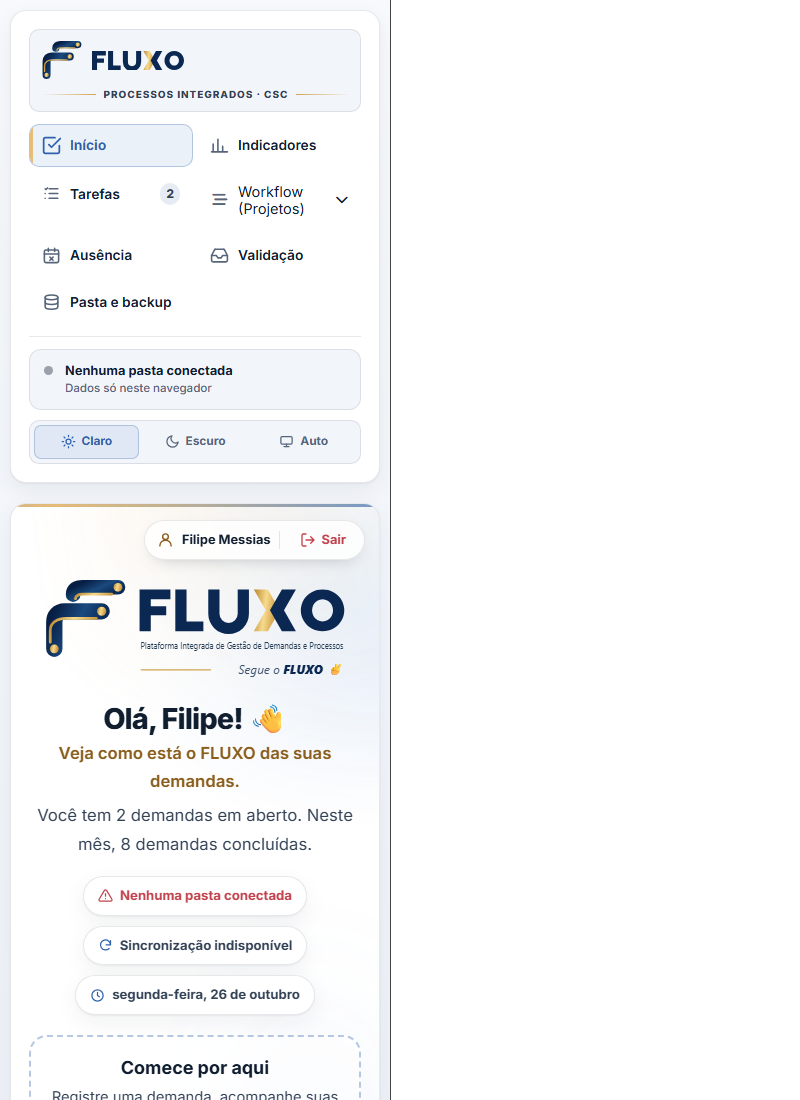
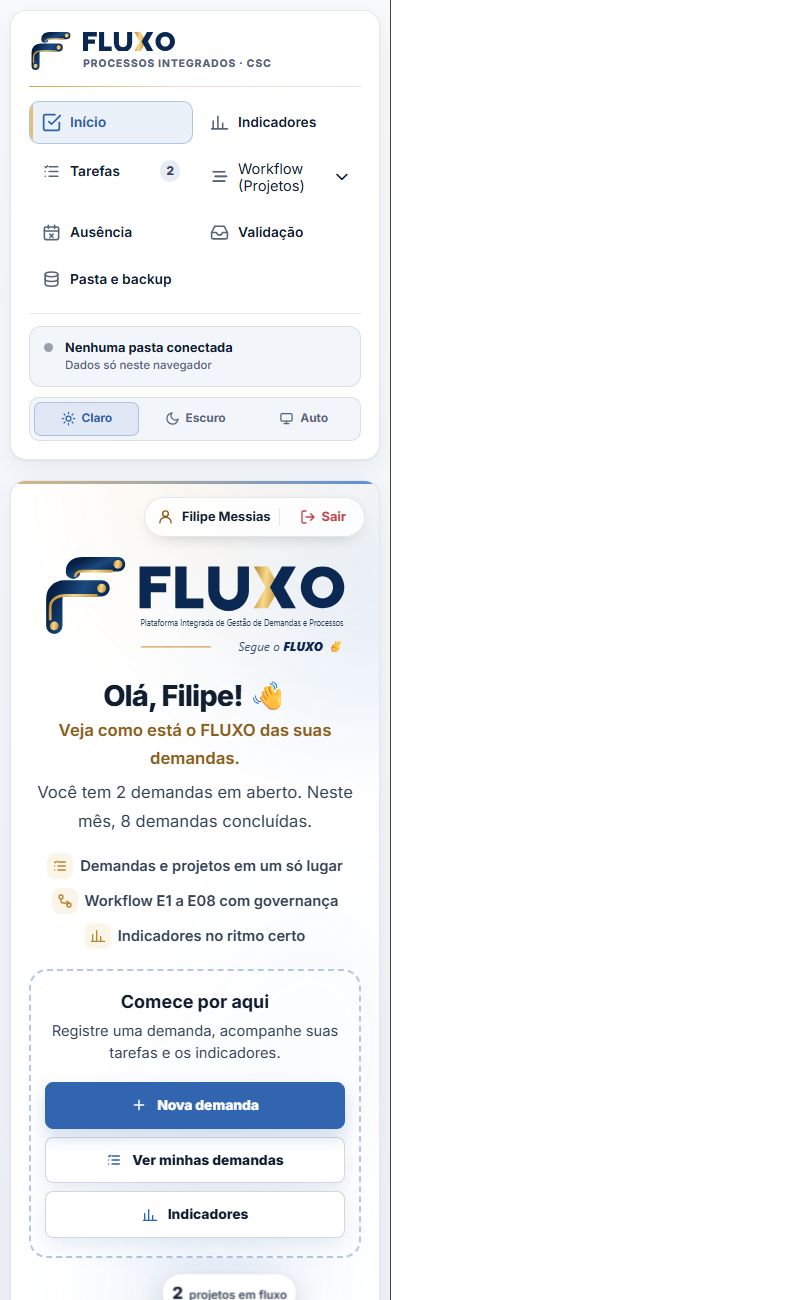
feat: marca do menu sem cartão e capa do Início mais limpa
- Menu: símbolo + FLUXO + "Processos Integrados · CSC" alinhados, sem
  cartão, com filete dourado; botão de recolher redondo na borda.
- Início: três frases do sistema no lugar dos estados de pasta,
  sincronização e data (o estado da pasta segue no rodapé do menu);
  sai a legenda abaixo da ilustração.

Changed region(s): [[0.0312, 0.0, 0.4375, 1.0], [0.375, 0.3091, 0.4062, 0.34], [0.0312, 0.9273, 0.0625, 0.9582]]

diff --git a/02-usuario/app/fluxo.css b/02-usuario/app/fluxo.css
@@ -165,7 +165,6 @@ body { background: var(--fx-shell); background-attachment: fixed; color: var(--f
 /* Recolhido: mostra só o símbolo */
 body.sidebar-collapsed .sidebar-brand { display: flex; justify-content: center; }
 body.sidebar-collapsed .sidebar-brand-text { display: none; }
-body.sidebar-collapsed .sidebar-tools { flex-direction: column; gap: 10px; }
 
 .nav-link { border-color: transparent; background: transparent; border-radius: 10px; box-shadow: none; transition: background var(--fx-fast) var(--fx-ease), color var(--fx-fast) var(--fx-ease), border-color var(--fx-fast) var(--fx-ease), transform var(--fx-fast) var(--fx-ease); }
 .nav-link svg, .nav-fa { color: var(--fx-ink-3); }
@@ -223,7 +222,6 @@ dialog[open] { animation: fxPop var(--fx-base) var(--fx-ease); }
 .fx-assinatura { margin-top: 28px; font-size: .78rem; letter-spacing: .08em; text-transform: uppercase; color: var(--fx-ink-3); }
 
 /* Aplicação da marca oficial e composição fluida do Início. */
-.sidebar-tools { background: var(--fx-surface-2); border-color: var(--fx-line); box-shadow: none; }
 .welcome-section { width: 100%; max-width: 1040px; min-height: min(780px, calc(100dvh - 140px)); padding: 8px 14px 30px; }
 .status-badges { margin-bottom: 20px; }
 .welcome-section h2 { margin-bottom: 8px; }
@@ -396,11 +394,6 @@ dialog[open] { animation: fxPop var(--fx-base) var(--fx-ease); }
 .fx-chip-ok b { color: var(--fx-success); }
 @keyframes fxChip { 0%, 100% { margin-top: 0; } 50% { margin-top: -6px; } }
 /* Legenda no rodapé da ilustração */
-.fx-capa-legenda { display: flex; flex-wrap: wrap; justify-content: center; gap: 6px 22px; margin-top: 14px; color: var(--fx-ink-2); font-size: .84rem; font-weight: 600; text-align: center; }
-.fx-capa-legenda span { display: inline-flex; align-items: center; gap: 8px; }
-.fx-capa-legenda small { flex-basis: 100%; color: var(--fx-ink-3); font-size: .76rem; font-weight: 400; }
-.fx-leg-fluxo { width: 26px; height: 0; border-top: 3px dotted #E6BC79; }
-.fx-leg-no { width: 12px; height: 12px; border-radius: 50%; background: #E6BC79; box-shadow: 0 0 0 3px rgba(230, 188, 121, .25); }
 
 /* Traços da ilustração (seguem o tema) */
 .fx-capa-linhas path, .fx-capa-doc rect, .fx-capa-doc path, .fx-capa-aro, .fx-capa-seta, .fx-capa-hex path:first-child { fill: none; stroke: var(--fx-capa-traco); stroke-width: 7; stroke-linecap: round; stroke-linejoin: round; }
@@ -458,49 +451,58 @@ dialog[open] { animation: fxPop var(--fx-base) var(--fx-ease); }
   .fx-capa-acoes { padding: 18px 14px; }
   .fx-capa-chip { font-size: .7rem; padding: 6px 9px; }
   .fx-chip-gear { left: 60%; }
-  .fx-capa-legenda { font-size: .78rem; }
 }
 @media (prefers-reduced-motion: reduce) {
   .fx-capa-fluxo, .fx-capa-aurora, .fx-capa-conteudo .primary-actions .cta::after { display: none; }
   .fx-capa-palco { transform: none; }
 }
 
-/* ============ 12. Menu lateral: altura da tela, rolagem própria e linha institucional ============ */
-/* Cartão da marca: símbolo + FLUXO + recolher; abaixo, "Processos Integrados · CSC" entre filetes dourados, como o slogan da logo */
-.sidebar-tools { flex-wrap: wrap; row-gap: 10px; padding: 10px 10px 11px 12px; }
-.sidebar-collapse { width: 34px; height: 34px; flex: 0 0 34px; border-radius: 10px; }
-.fx-brand-sub { flex: 1 0 100%; display: flex; align-items: center; gap: 8px; min-width: 0; color: var(--fx-ink-2); font-size: .58rem; font-weight: 800; letter-spacing: .1em; line-height: 1; text-transform: uppercase; white-space: nowrap; }
-.fx-brand-sub::before, .fx-brand-sub::after { content: ''; flex: 1 1 10px; min-width: 10px; height: 1px; background: linear-gradient(90deg, rgba(210, 164, 82, 0), #D2A452); }
-.fx-brand-sub::after { background: linear-gradient(90deg, #D2A452, rgba(210, 164, 82, 0)); }
+/* Frases do sistema na capa (no lugar dos estados de pasta, sincronização e data) */
+.fx-capa-conteudo .status-badges:has(.fx-valor) { flex-direction: column; align-items: flex-start; gap: 9px; }
+.fx-capa-conteudo .status-pill.fx-valor { padding: 0; border: 0; background: none; box-shadow: none; backdrop-filter: none; color: var(--fx-ink-2); font-size: .92rem; font-weight: 600; }
+.fx-capa-conteudo .status-pill.fx-valor svg { flex: none; width: 26px; height: 26px; padding: 5px; border-radius: 8px; color: #B8862F; background: rgba(230, 188, 121, .16); }
+@media (max-width: 1100px) { .fx-capa-conteudo .status-badges:has(.fx-valor) { align-items: center; } }
+
+/* ============ 12. Menu lateral: altura da tela, rolagem própria e marca ============ */
+/* Marca sem cartão: símbolo + FLUXO + "Processos Integrados · CSC" alinhados; filete dourado separa do menu */
+.sidebar-tools { position: relative; min-height: 0; margin-bottom: 14px; padding: 2px 2px 16px; border: 0; border-radius: 0; background: none; box-shadow: none; }
+.sidebar-tools::after { content: ''; position: absolute; left: 0; right: 0; bottom: 0; height: 1px; background: linear-gradient(90deg, #D2A452, rgba(210, 164, 82, .35) 45%, var(--fx-line) 100%); }
+.sidebar-brand { gap: 12px; min-width: 0; }
+.sidebar-brand-text { gap: 6px; }
+.fx-brand-sub { display: block; color: var(--fx-ink-3); font-size: .56rem; font-weight: 700; letter-spacing: .07em; line-height: 1; text-transform: uppercase; white-space: nowrap; }
+/* Recolher: botão redondo e discreto na borda do menu */
+.sidebar-collapse { position: absolute; top: 0; right: -29px; z-index: 3; width: 26px; height: 26px; flex: none; border: 1px solid var(--fx-line); border-radius: 50%; background: var(--fx-surface); color: var(--fx-ink-3); box-shadow: 0 4px 12px rgba(16, 30, 48, .16); transition: color var(--fx-fast) var(--fx-ease), border-color var(--fx-fast) var(--fx-ease), transform var(--fx-fast) var(--fx-ease); }
+.sidebar-collapse svg { width: 14px; height: 14px; }
+.sidebar-collapse:hover { color: var(--fx-accent); border-color: rgba(var(--fx-accent-rgb), .45); background: var(--fx-surface); transform: scale(1.08); }
 .sidebar ul#navList { gap: 4px; align-content: start; }
 .nav-link { padding: 11px 12px; }
 /* Foco visível para quem navega pelo teclado */
 .nav-link:focus-visible, .sidebar-collapse:focus-visible, .sync-card:focus-visible, .theme-switch button:focus-visible { outline: 2px solid var(--fx-accent); outline-offset: 2px; }
 
 @media (min-width: 1201px) {
-  /* A coluna ocupa a altura da tela: o menu rola por dentro e o rodapé (pasta e tema) fica sempre embaixo */
-  .sidebar { height: calc(100dvh - 24px); max-height: none; padding: 18px 16px 16px; overflow: hidden; }
-  .sidebar ul#navList { flex: 1 1 auto; min-height: 0; overflow-y: auto; overscroll-behavior: contain; margin: 0 -6px; padding: 2px 6px 8px; scrollbar-width: thin; scrollbar-color: var(--fx-line) transparent; }
+  /* A coluna ocupa a altura da tela: o menu rola por dentro e o rodapé (pasta e tema) fica sempre embaixo.
+     A coluna não corta o conteúdo, para o botão de recolher ficar na borda. */
+  .sidebar { height: calc(100dvh - 24px); max-height: none; padding: 20px 16px 16px; overflow: visible; }
+  .sidebar ul#navList { flex: 1 1 auto; min-height: 0; overflow-y: auto; overflow-x: hidden; overscroll-behavior: contain; margin: 0 -6px; padding: 2px 6px 8px; scrollbar-width: thin; scrollbar-color: var(--fx-line) transparent; }
   .sidebar-foot { flex: none; margin-top: 10px; padding-top: 12px; }
-  .sidebar-tools { margin-bottom: 14px; }
-  /* Recolhido: só ícones, com o símbolo e o botão de abrir empilhados */
-  body.sidebar-collapsed .sidebar { padding: 16px 10px; }
-  body.sidebar-collapsed .sidebar-tools { padding: 8px 6px; row-gap: 8px; }
-  body.sidebar-collapsed .fx-brand-sub { display: none; }
+  /* Recolhido: só o símbolo, centralizado; o botão continua na borda */
+  body.sidebar-collapsed .sidebar { padding: 20px 10px 16px; }
+  body.sidebar-collapsed .sidebar-tools { flex-direction: row; justify-content: center; padding: 2px 0 16px; }
+  body.sidebar-collapsed .sidebar-collapse { right: -23px; }
   body.sidebar-collapsed .nav-link { min-height: 48px; }
   body.sidebar-collapsed .sidebar ul#navList { margin: 0 -4px; padding: 2px 4px 8px; }
 }
 /* Telas baixas (notebook com zoom, janelas pequenas): itens mais compactos */
 @media (min-width: 1201px) and (max-height: 760px) {
-  .sidebar { padding-top: 14px; padding-bottom: 12px; }
-  .sidebar-tools { margin-bottom: 10px; }
+  .sidebar { padding-top: 16px; padding-bottom: 12px; }
+  .sidebar-tools { margin-bottom: 10px; padding-bottom: 12px; }
   .nav-link { padding-top: 9px; padding-bottom: 9px; }
   .sync-card { padding: 9px 12px; }
   .theme-switch { margin-top: 8px; }
   .theme-switch button { min-height: 30px; }
   body.sidebar-collapsed .nav-link { min-height: 42px; }
 }
-/* Tablet e celular: o menu vem no topo; a linha institucional acompanha a largura */
+/* Tablet e celular: o menu vem no topo, sem botão de recolher */
 @media (max-width: 1200px) {
   .fx-brand-sub { font-size: .62rem; }
 }

diff --git a/02-usuario/app/pgd.js b/02-usuario/app/pgd.js
@@ -4440,14 +4440,11 @@ function renderHome() {
   const hello = h < 12 ? 'Bom dia' : h < 18 ? 'Boa tarde' : 'Boa noite';
   const first = s => String(s || '').trim().split(/\s+/)[0];
   const who = isReader() ? first(cfg.name) : isSup ? first((PRESET && PRESET.nome) || cfg.name || (supCtx && supCtx.supervisor) || '') : first(cfg.name);
-  // Selos de situação
-  let connPill;
-  if (conn === 'ok') connPill = `<span class="status-pill">${I.folder}${dir ? `Pasta “${esc(dir.name)}”` : 'Pasta conectada'}</span>`;
-  else if (conn === 'prompt') connPill = `<span class="status-pill warn">${I.alert}Pasta aguardando reativação</span>`;
-  else connPill = `<span class="status-pill err">${I.alert}Nenhuma pasta conectada</span>`;
-  const pills = [connPill,
-    `<span class="status-pill">${I.refresh}${sync.state === 'syncing' ? 'Sincronizando…' : sync.state === 'error' ? 'Erro na sincronização' : conn === 'ok' ? sync.lastSync ? `${isSup ? 'Lido' : 'Sincronizado'} às ${fmtTime(sync.lastSync)}` : 'Conectado · primeira leitura pendente' : 'Sincronização indisponível'}</span>`,
-    `<span class="status-pill">${I.clock}${esc(new Date().toLocaleDateString('pt-BR', { weekday:'long', day:'2-digit', month:'long' }))}</span>`];
+  // Frases que apresentam o sistema (o estado da pasta fica no rodapé do menu)
+  const pills = [
+    `<span class="status-pill fx-valor">${I.tasks}${isSup ? 'Equipe e demandas em um só lugar' : 'Demandas e projetos em um só lugar'}</span>`,
+    `<span class="status-pill fx-valor">${I.flow}Workflow E1 a E08 com governança</span>`,
+    `<span class="status-pill fx-valor">${I.chart}${isSup ? 'Indicadores da área no ritmo certo' : 'Indicadores no ritmo certo'}</span>`];
   let lead, actions, cards;
   if (isReader()) {
     const sups = readerSupsAll(), mk = curMonth(), a = aggregate(linesFor(mk).lines, 'todos', 'todos');
@@ -4537,11 +4534,6 @@ function renderHome() {
           <span class="fx-capa-chip fx-chip-doc"><b>${open.length}</b> ${open.length === 1 ? 'em aberto' : 'em aberto'}</span>
           <span class="fx-capa-chip fx-chip-gear"><b>${wfAbertos}</b> ${wfAbertos === 1 ? 'projeto em fluxo' : 'projetos em fluxo'}</span>
           <span class="fx-capa-chip fx-chip-ok"><b>${doneMonth}</b> ${doneMonth === 1 ? 'concluída no mês' : 'concluídas no mês'}</span>
-        </div>
-        <div class="fx-capa-legenda">
-          <span><i class="fx-leg-fluxo"></i>Caminho da demanda (solicitação → execução → aprovação)</span>
-          <span><i class="fx-leg-no"></i>Workflow E1 a E08, com gates em E3 e E5</span>
-          <small>Os números acompanham ${isSup ? 'as demandas da equipe' : 'as suas demandas'} e se atualizam a cada sincronização.</small>
         </div>
       </div>
     </section>

diff --git a/02-usuario/app/pgd-markup.js b/02-usuario/app/pgd-markup.js
@@ -75,12 +75,11 @@ document.body.insertAdjacentHTML('afterbegin', `
     <div class="sidebar-tools">
       <div class="sidebar-brand">
         <span class="sidebar-brand-icon pgd-mark" title="FLUXO · Plataforma Integrada de Gestão de Demandas e Processos"><img class="fx-claro" src="../app/marca/fluxo-icon.svg" alt=""><img class="fx-escuro" src="../app/marca/fluxo-icon-dark.svg" alt=""></span>
-        <span class="sidebar-brand-text"><strong id="brandName">FLUXO</strong></span>
+        <span class="sidebar-brand-text"><strong id="brandName">FLUXO</strong><small id="brandSub" class="fx-brand-sub"></small></span>
       </div>
       <button class="sidebar-collapse" id="sidebarCollapse" type="button" aria-label="Recolher menu lateral" aria-expanded="true" title="Recolher menu lateral">
         <svg viewBox="0 0 24 24" fill="none" stroke="currentColor" stroke-width="2.2" stroke-linecap="round" stroke-linejoin="round"><path d="M15 6l-6 6 6 6"/></svg>
       </button>
-      <small id="brandSub" class="fx-brand-sub"></small>
     </div>
     <div class="ws-switch" id="wsSwitch" hidden></div>
     <ul id="navList"></ul>

diff --git a/02-usuario/app/marca/README.md b/02-usuario/app/marca/README.md
@@ -40,10 +40,10 @@ A palavra FLUXO é desenhada como vetor (não é texto em fonte). Por isso apare
 
 | Local | Versão da marca |
 | --- | --- |
-| Menu lateral expandido | Símbolo + palavra FLUXO no cartão do cabeçalho; abaixo, "Processos Integrados · CSC" entre filetes dourados, como o slogan da logo |
+| Menu lateral expandido | Sem cartão: símbolo + palavra FLUXO + "Processos Integrados · CSC" alinhados, com um filete dourado separando do menu. O botão de recolher é um círculo discreto na borda do menu |
 | Barra do topo direito | Nome do usuário conectado (dinâmico) | Sair |
-| Menu lateral recolhido | Só o símbolo |
-| Início (analista e supervisão) | Capa de largura total: à esquerda, logo completa com descrição e slogan, saudação, estados da pasta e a área "Comece por aqui"; à direita, a ilustração animada com etiquetas de números e legenda. Os cartões de atalho vêm abaixo |
+| Menu lateral recolhido | Só o símbolo, centralizado; o botão de abrir continua na borda |
+| Início (analista e supervisão) | Capa de largura total. À esquerda: logo completa com descrição e slogan, saudação, resumo, três frases do sistema e a área "Comece por aqui". À direita: a ilustração animada com as etiquetas de números. Os cartões de atalho vêm abaixo |
 | Login: área institucional | Logo completa (versão escura) no topo esquerdo; "Segue o FLUXO ✌" com FLUXO em dourado animado. Efeitos: rede com pulsos dourados, nós pulsando, aurora e luz que segue o cursor |
 | Login: cartão de acesso | Símbolo + FLUXO, acima de "Acesse o FLUXO". Cartão de vidro com borda viva (dourado ↔ azul) e reflexo no botão Entrar. Abaixo: "FLUXO · Sua gestão no ritmo certo." e "Elaborado: Processos Integrados". Com "reduzir animações", os movimentos param |
 | Telas internas (Tarefas, Workflow, Indicadores, Validação, Ausência, Pasta e backup, Dashboard) | Marca compacta do menu lateral; a logo completa não se repete |
@@ -56,7 +56,7 @@ Cada local carrega a versão clara e a escura do ativo. A regra `.fx-claro` / `.
 
 ## Ilustração da capa do Início
 
-A capa ocupa toda a largura do painel e segue o padrão de capa do CSC (ideia principal à esquerda, ilustração à direita). **À esquerda**: logo completa como título, saudação, resumo, estados da pasta e a área tracejada "Comece por aqui" com as ações. **À direita**: a ilustração com três etiquetas de números reais (em aberto, projetos em fluxo, concluídas no mês) e uma legenda abaixo. No HTML, o conteúdo vem primeiro, então leitores de tela e o celular leem a marca e a saudação antes da ilustração, que é decorativa (`aria-hidden`).
+A capa ocupa toda a largura do painel e segue o padrão de capa do CSC (ideia principal à esquerda, ilustração à direita). **À esquerda:** logo completa como título, saudação, resumo e três frases que apresentam o sistema: "Demandas e projetos em um só lugar" (na supervisão, "Equipe e demandas em um só lugar"), "Workflow E1 a E08 com governança" e "Indicadores no ritmo certo" (na supervisão, "Indicadores da área no ritmo certo"). Depois vem a área tracejada "Comece por aqui". **À direita:** a ilustração com três etiquetas de números reais (em aberto, projetos em fluxo, concluídas no mês). O estado da pasta fica no rodapé do menu; avisos de ausência continuam aparecendo na capa. No HTML, o conteúdo vem primeiro, então leitores de tela e o celular leem a marca e a saudação antes da ilustração, que é decorativa (`aria-hidden`).
 
 A ilustração é um vetor desenhado nas cores da marca a partir do ícone de processo (documento → duas engrenagens → hexágono de aprovação). Fica embutida em `../pgd.js` (`FX_CAPA_ARTE`), com o estilo e os efeitos em `../fluxo.css` (seção 11).
 

diff --git a/README.md b/README.md
@@ -189,7 +189,7 @@ Os dois painéis usam o mesmo motor (`pgd.js`). O `mode` do preset decide o menu
 
 | Item | Para que serve |
 | --- | --- |
-| **Início** | Capa de largura total em duas colunas. À esquerda, a ideia principal: logo FLUXO com slogan, saudação, resumo, estados da pasta e a área tracejada "Comece por aqui" com as ações. À direita, a ilustração animada do fluxo com etiquetas de números reais (em aberto, projetos em fluxo, concluídas no mês) e legenda. Efeitos: borda viva, aurora, luz do cursor e inclinação 3D. No tablet e no celular vira uma coluna, com a ilustração abaixo. Em seguida, cartões de atalho (em aberto, atrasadas, vencem em breve, Workflow). |
+| **Início** | Capa de largura total em duas colunas. À esquerda: logo FLUXO com slogan, saudação, resumo, três frases do sistema (demandas e projetos em um só lugar; Workflow E1 a E08 com governança; indicadores no ritmo certo) e a área tracejada "Comece por aqui" com as ações. À direita: a ilustração animada do fluxo com etiquetas de números reais (em aberto, projetos em fluxo, concluídas no mês). O estado da pasta fica no rodapé do menu. No tablet e no celular, vira uma coluna. Em seguida vêm os cartões de atalho (em aberto, atrasadas, vencem em breve, Workflow). |
 | **Indicadores** | Cartões por situação, itens que pedem atenção, régua de prazos, tabela por assunto e ritmo da semana. |
 | **Tarefas** | Lista e quadro das suas demandas: filtros, nova demanda, notas de andamento, anexos, recorrência, relatório em PDF/Excel. |
 | **Workflow (Projetos)** (grupo) | O título só abre e fecha a lista, com animação. Dentro ficam **Workflow** (tracker) e **E3 — Levantamento**, **E4 — Execução**, **E5 — Validação**, **E6 — Ajustes**, **E7 — Entrega**, **E08 — Hypercare** (seção 6). A lista começa fechada e já vem aberta quando a tela atual é do Workflow. |
